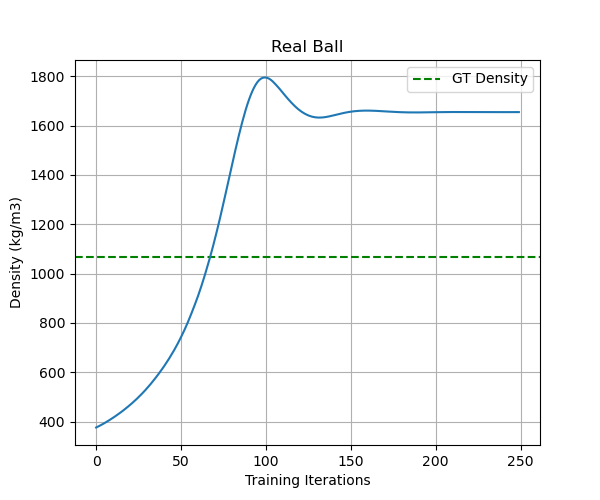
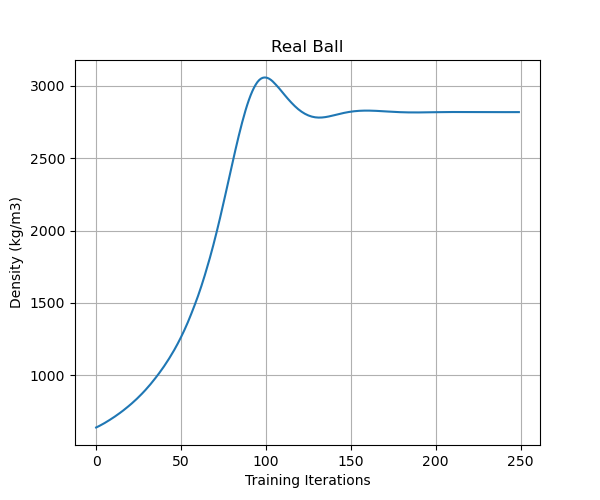
real density fixed

diff --git a/scripts/learn_density_real.py b/scripts/learn_density_real.py
@@ -194,5 +194,5 @@ if __name__ == "__main__":
                 
     fig, ax = plt.subplots(nrows=1,ncols=1, figsize=(5,5))
     ws = Path(os.getenv('MATPROP3DWS'))
-    plot_sphere_density_trajectory(ax, ws/'real_inv_mass_learning.txt', radius=0.04, gt=1068, name='Real Ball')
+    plot_sphere_density_trajectory(ax, ws/'real_inv_mass_learning.txt', radius=0.0335, gt=None, name='Real Ball')
     plt.savefig(ws/'density_estimation_real.png')
